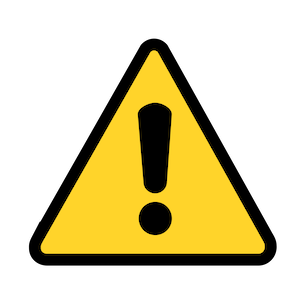
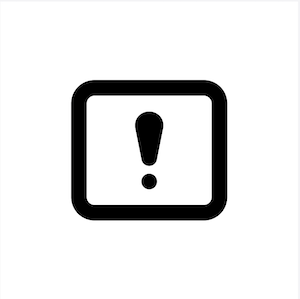
last pass proofread and updates to docs. Use better image for disclaimer section. Update readme to not include notes on the jekyll process.

diff --git a/README.md b/README.md
@@ -1,89 +1,5 @@
-# dlc-documentation
-Repo for creating initial drafts of public documentation for the DLC tool
+# DLC Documentation
 
+This is the repository that hosts the public documentation for the [DLC Generator](https://dlc.evergreeninnovations.co/welcome).
 
-# Notes
-
-1. React can support KaTex with [remark-math](https://github.com/remarkjs/remark-math) & [rehype-katex](https://github.com/rehypejs/rehype).
-
-
-# Jekyll
-
-Jekyll seems like it will be a great way to use md files to create documentation.
-
-MacOS instal [here](https://jekyllrb.com/docs/installation/macos/).
-
-
-# Creating The Initial Site
-
-Github tutorial starts [here](https://docs.github.com/en/pages/setting-up-a-github-pages-site-with-jekyll/creating-a-github-pages-site-with-jekyll).  All of the commands are listed there, except for the following one for the error below [here](#couldnt-run-locally-at-first).
-
-## Github Pages themes
-
-Needed to run `gem install github-pages` for the themes to work locally too.
-
-## Better example
-
-A better example, one I used to create the starting template, was found [here](https://github.com/laredo/mm-jekyll)
-
-### File order in the different sections
-
-Under `_theory` & `_documentation` there are files with numeric prefixes.  This will order them so the default "next" and "previous" buttons generated will be in a desired order.
-
-
-## Couldn't run locally at first:
-
-Error output (first line is command to serve the site locally):
-
-```
-bundle exec jekyll serve
-Configuration file: /Users/gp/github/sandia-dlc/dlc-documentation/docs/_config.yml
-To use retry middleware with Faraday v2.0+, install `faraday-retry` gem
-            Source: /Users/gp/github/sandia-dlc/dlc-documentation/docs
-       Destination: /Users/gp/github/sandia-dlc/dlc-documentation/docs/_site
- Incremental build: disabled. Enable with --incremental
-      Generating... 
-       Jekyll Feed: Generating feed for posts
-                    done in 0.224 seconds.
- Auto-regeneration: enabled for '/Users/gp/github/sandia-dlc/dlc-documentation/docs'
-bundler: failed to load command: jekyll (/Users/gp/.gem/ruby/3.1.3/bin/jekyll)
-/Users/gp/.gem/ruby/3.1.3/gems/jekyll-3.9.3/lib/jekyll/commands/serve/servlet.rb:3:in `require': cannot load such file -- webrick (LoadError)
-	from /Users/gp/.gem/ruby/3.1.3/gems/jekyll-3.9.3/lib/jekyll/commands/serve/servlet.rb:3:in `<top (required)>'
-	from /Users/gp/.gem/ruby/3.1.3/gems/jekyll-3.9.3/lib/jekyll/commands/serve.rb:184:in `require_relative'
-	from /Users/gp/.gem/ruby/3.1.3/gems/jekyll-3.9.3/lib/jekyll/commands/serve.rb:184:in `setup'
-	from /Users/gp/.gem/ruby/3.1.3/gems/jekyll-3.9.3/lib/jekyll/commands/serve.rb:102:in `process'
-	from /Users/gp/.gem/ruby/3.1.3/gems/jekyll-3.9.3/lib/jekyll/commands/serve.rb:93:in `block in start'
-	from /Users/gp/.gem/ruby/3.1.3/gems/jekyll-3.9.3/lib/jekyll/commands/serve.rb:93:in `each'
-	from /Users/gp/.gem/ruby/3.1.3/gems/jekyll-3.9.3/lib/jekyll/commands/serve.rb:93:in `start'
-	from /Users/gp/.gem/ruby/3.1.3/gems/jekyll-3.9.3/lib/jekyll/commands/serve.rb:75:in `block (2 levels) in init_with_program'
-	from /Users/gp/.gem/ruby/3.1.3/gems/mercenary-0.3.6/lib/mercenary/command.rb:220:in `block in execute'
-	from /Users/gp/.gem/ruby/3.1.3/gems/mercenary-0.3.6/lib/mercenary/command.rb:220:in `each'
-	from /Users/gp/.gem/ruby/3.1.3/gems/mercenary-0.3.6/lib/mercenary/command.rb:220:in `execute'
-	from /Users/gp/.gem/ruby/3.1.3/gems/mercenary-0.3.6/lib/mercenary/program.rb:42:in `go'
-	from /Users/gp/.gem/ruby/3.1.3/gems/mercenary-0.3.6/lib/mercenary.rb:19:in `program'
-	from /Users/gp/.gem/ruby/3.1.3/gems/jekyll-3.9.3/exe/jekyll:15:in `<top (required)>'
-	from /Users/gp/.gem/ruby/3.1.3/bin/jekyll:25:in `load'
-	from /Users/gp/.gem/ruby/3.1.3/bin/jekyll:25:in `<top (required)>'
-	from /Users/gp/.rubies/ruby-3.1.3/lib/ruby/3.1.0/bundler/cli/exec.rb:58:in `load'
-	from /Users/gp/.rubies/ruby-3.1.3/lib/ruby/3.1.0/bundler/cli/exec.rb:58:in `kernel_load'
-	from /Users/gp/.rubies/ruby-3.1.3/lib/ruby/3.1.0/bundler/cli/exec.rb:23:in `run'
-	from /Users/gp/.rubies/ruby-3.1.3/lib/ruby/3.1.0/bundler/cli.rb:486:in `exec'
-	from /Users/gp/.rubies/ruby-3.1.3/lib/ruby/3.1.0/bundler/vendor/thor/lib/thor/command.rb:27:in `run'
-	from /Users/gp/.rubies/ruby-3.1.3/lib/ruby/3.1.0/bundler/vendor/thor/lib/thor/invocation.rb:127:in `invoke_command'
-	from /Users/gp/.rubies/ruby-3.1.3/lib/ruby/3.1.0/bundler/vendor/thor/lib/thor.rb:392:in `dispatch'
-	from /Users/gp/.rubies/ruby-3.1.3/lib/ruby/3.1.0/bundler/cli.rb:31:in `dispatch'
-	from /Users/gp/.rubies/ruby-3.1.3/lib/ruby/3.1.0/bundler/vendor/thor/lib/thor/base.rb:485:in `start'
-	from /Users/gp/.rubies/ruby-3.1.3/lib/ruby/3.1.0/bundler/cli.rb:25:in `start'
-	from /Users/gp/.rubies/ruby-3.1.3/lib/ruby/gems/3.1.0/gems/bundler-2.3.26/libexec/bundle:48:in `block in <top (required)>'
-	from /Users/gp/.rubies/ruby-3.1.3/lib/ruby/3.1.0/bundler/friendly_errors.rb:120:in `with_friendly_errors'
-	from /Users/gp/.rubies/ruby-3.1.3/lib/ruby/gems/3.1.0/gems/bundler-2.3.26/libexec/bundle:36:in `<top (required)>'
-	from /Users/gp/.rubies/ruby-3.1.3/bin/bundle:25:in `load'
-	from /Users/gp/.rubies/ruby-3.1.3/bin/bundle:25:in `<main>'
-```
-
-**Fixed With:**
-
-Apparently ruby 3.0 and greater don't come with `webrick` by default and github pages tutorial doesn't mention it.
-
-`bundle add webrick`
-
+The documentation is published as a website [here](https://evergreen-innovations.github.io/dlc-documentation/).  Please view the information there.  

diff --git a/docs/_interface/04_responseAnalysis.md b/docs/_interface/04_responseAnalysis.md
@@ -54,9 +54,9 @@ There are two example scripts, one written for MATLAB, and another for python.
 #### Python 
 The python example is a Jupyter Notebook with two related CSV's (of the surface elevation downloaded through the DLC Generator). The notebook performs a simple simulation of a mock device in order to create mock response variables. 
 
-View the python notebook in your browser <a href="{{ site.url }}/download/example-notebook.html" target="_blank">here</a>.
+View the python notebook in a browser <a href="{{ site.url }}/download/example-notebook.html" target="_blank">here</a>.
 
-Or, [Download the python example notebook][1] and download [first][2] and [second][3] CSV's if you'd like a starting point.
+Or, [Download the python example notebook][1] and download [first][2] and [second][3] CSV's to use as a starting point.
 
 
 #### MATLAB

diff --git a/docs/_interface/03_toolWorkflow.md b/docs/_interface/03_toolWorkflow.md
@@ -65,7 +65,7 @@ Checking "Disregard" on a column, row, or cell indicates that the selected tests
 
 ### Re-cleaning Statistic Data Source
 
-Each project has one cleaned data set saved. Re-cleaning data will replace the original data and necessitates the re-running of any statistics computed in later stages of the workflow.  The tool guides users through the process of re-saving statistics via warning messages displayed on the screen if you fall into this scenario.
+Each project has one cleaned data set saved. Re-cleaning data will replace the original data and necessitates the re-running of any statistics computed in later stages of the workflow.  The tool guides users through the process of re-saving statistics via warning messages displayed on the screen if a user falls into this scenario.
 
 ## Cleaned Data Review
 

diff --git a/docs/_interface/02_dataSources.md b/docs/_interface/02_dataSources.md
@@ -42,7 +42,7 @@ The `stdmet` data provides {% raw %}$$H_{m0}$${% endraw %}, {% raw %}$$T_p$${% e
 
 The `swden` parameter data undergoes the same process as CDIP (all steps above).
 
-Due to the two parameters available from NDBC, you may find a few stations that appear to be duplicated.  The names may be the same, however one is from `stdmet` and one is from `swden`.  Using the **Has Te** filter in the mapping page would remove the `stdmet` option.
+Due to the two parameters available from NDBC, there may be a few stations that appear to be duplicated.  The names may be the same, however one is from `stdmet` and one is from `swden`.  Using the **Has Te** filter in the mapping page would remove the `stdmet` option.
 
 ### Known Corrupt Values
 

diff --git a/docs/_theory/05_response.md b/docs/_theory/05_response.md
@@ -13,7 +13,7 @@ toc_sticky: true
 
 The developer uses the downloaded surface elevation time series, performs tests while collecting response variables (motions of or forces exerted on the WEC device), then performs an extreme value analysis on each of the response variables captured.
 
-See the [tool documentation]({{site.url}}/interface/responseAnalysis) for information on creating the uploaded response file to the DLC Generator.
+See the [web interface documentation]({{site.url}}/interface/responseAnalysis) for information on creating the uploaded response file to the DLC Generator.
 
 {{site.doc-name}} Section 7.3 has detailed requirements for the testing.
 

diff --git a/docs/_interface/01_intro.md b/docs/_interface/01_intro.md
@@ -35,7 +35,7 @@ The Design Load Case (DLC) Generator tool supports the development of marine ene
 4. Performs extreme response analysis on the results of tank testing or numerical modeling to quantify extreme characteristics.
 
 
-This documentation section does not cover the theory behind the scenes, please see the [theory docs]({{site.url}}/theory/) for details on implementations and references.
+This documentation section does not cover the theory behind the scenes, please see the [theory documentation]({{site.url}}/theory/) for details on implementations and references.
 
 
 

diff --git a/docs/_theory/01_intro.md b/docs/_theory/01_intro.md
@@ -22,6 +22,6 @@ The DLC Generator supports and enables WEC developers, **who own a copy of the [
 - References and papers covering the equations and calculations performed.
 - Guidance on best practices and recommendations from relevant papers and technical specifications.
 
-See the [tool documentation]({{site.url}}/interface/) for information on using the tool.
+See the [web interface documentation]({{site.url}}/interface/) for information on using the tool.
 
 
